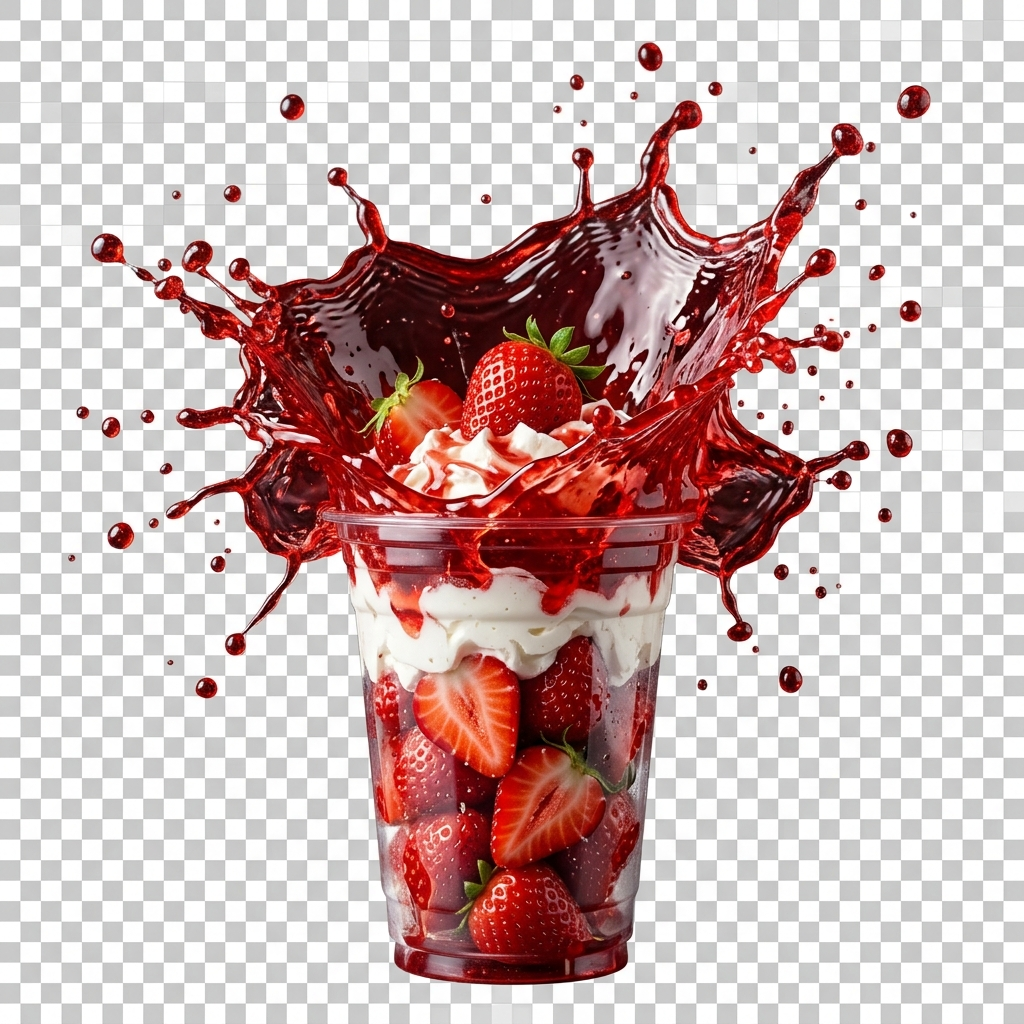
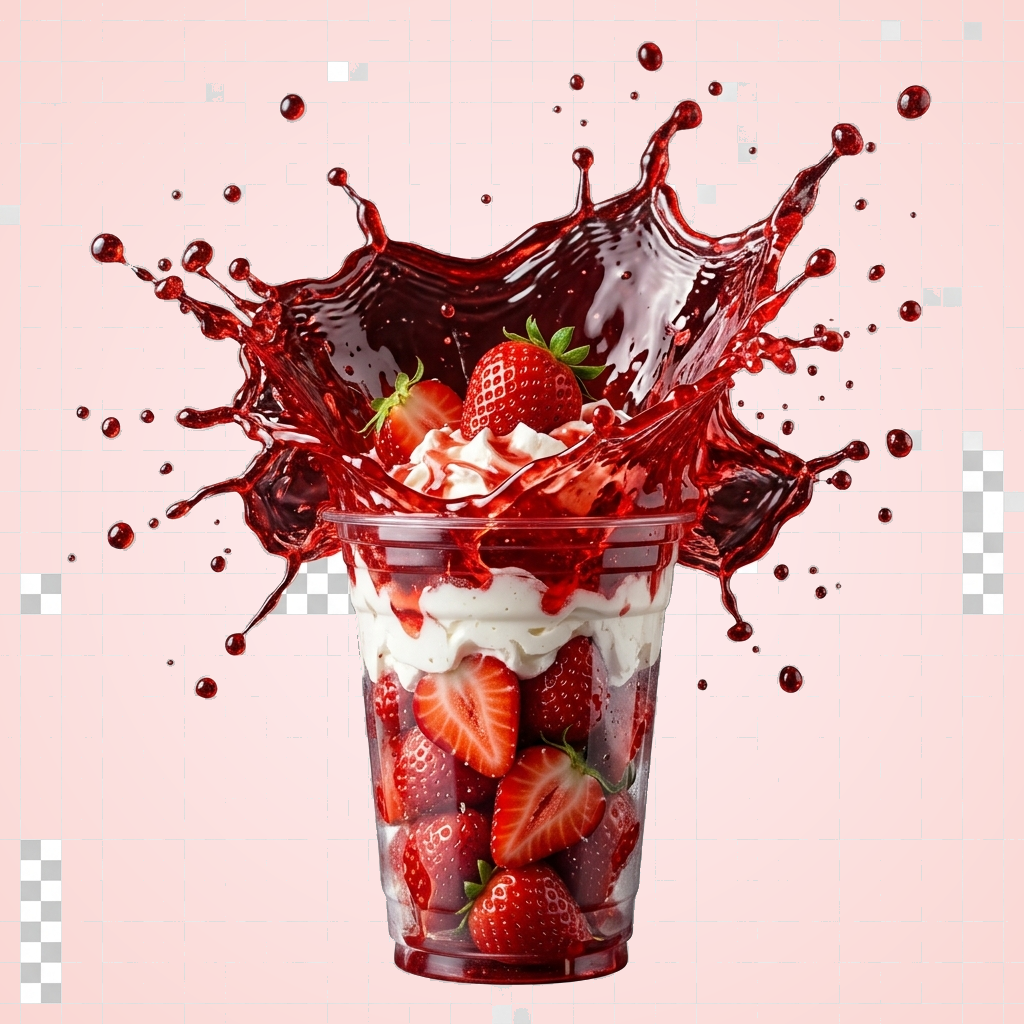
feat: replace transparent carousel images with premium background images

diff --git a/src/components/home/PromoBanner.tsx b/src/components/home/PromoBanner.tsx
@@ -15,9 +15,9 @@ const slides: PromoSlide[] = [
   {
     id: 'fresas-con-crema',
     frames: [
-      '/images/products/fresas-frame1.png',
-      '/images/products/fresas-frame2.png',
-      '/images/products/fresas-frame3.png',
+      '/images/products/fresas-con-crema-carousel.png',
+      '/images/products/fresas-con-crema-carousel.png',
+      '/images/products/fresas-con-crema-carousel.png',
     ],
     link: '/producto/fresas-con-crema-14oz',
     alt: 'Fresas con Crema',
@@ -25,9 +25,9 @@ const slides: PromoSlide[] = [
   {
     id: 'merengon',
     frames: [
-      '/images/products/merengon-frame1.png',
-      '/images/products/merengon-frame2.png',
-      '/images/products/merengon-frame3.png',
+      '/images/products/merengon-deluxe-carousel.png',
+      '/images/products/merengon-deluxe-carousel.png',
+      '/images/products/merengon-deluxe-carousel.png',
     ],
     link: '/producto/merengon-deluxe',
     alt: 'Merengón Deluxe',
